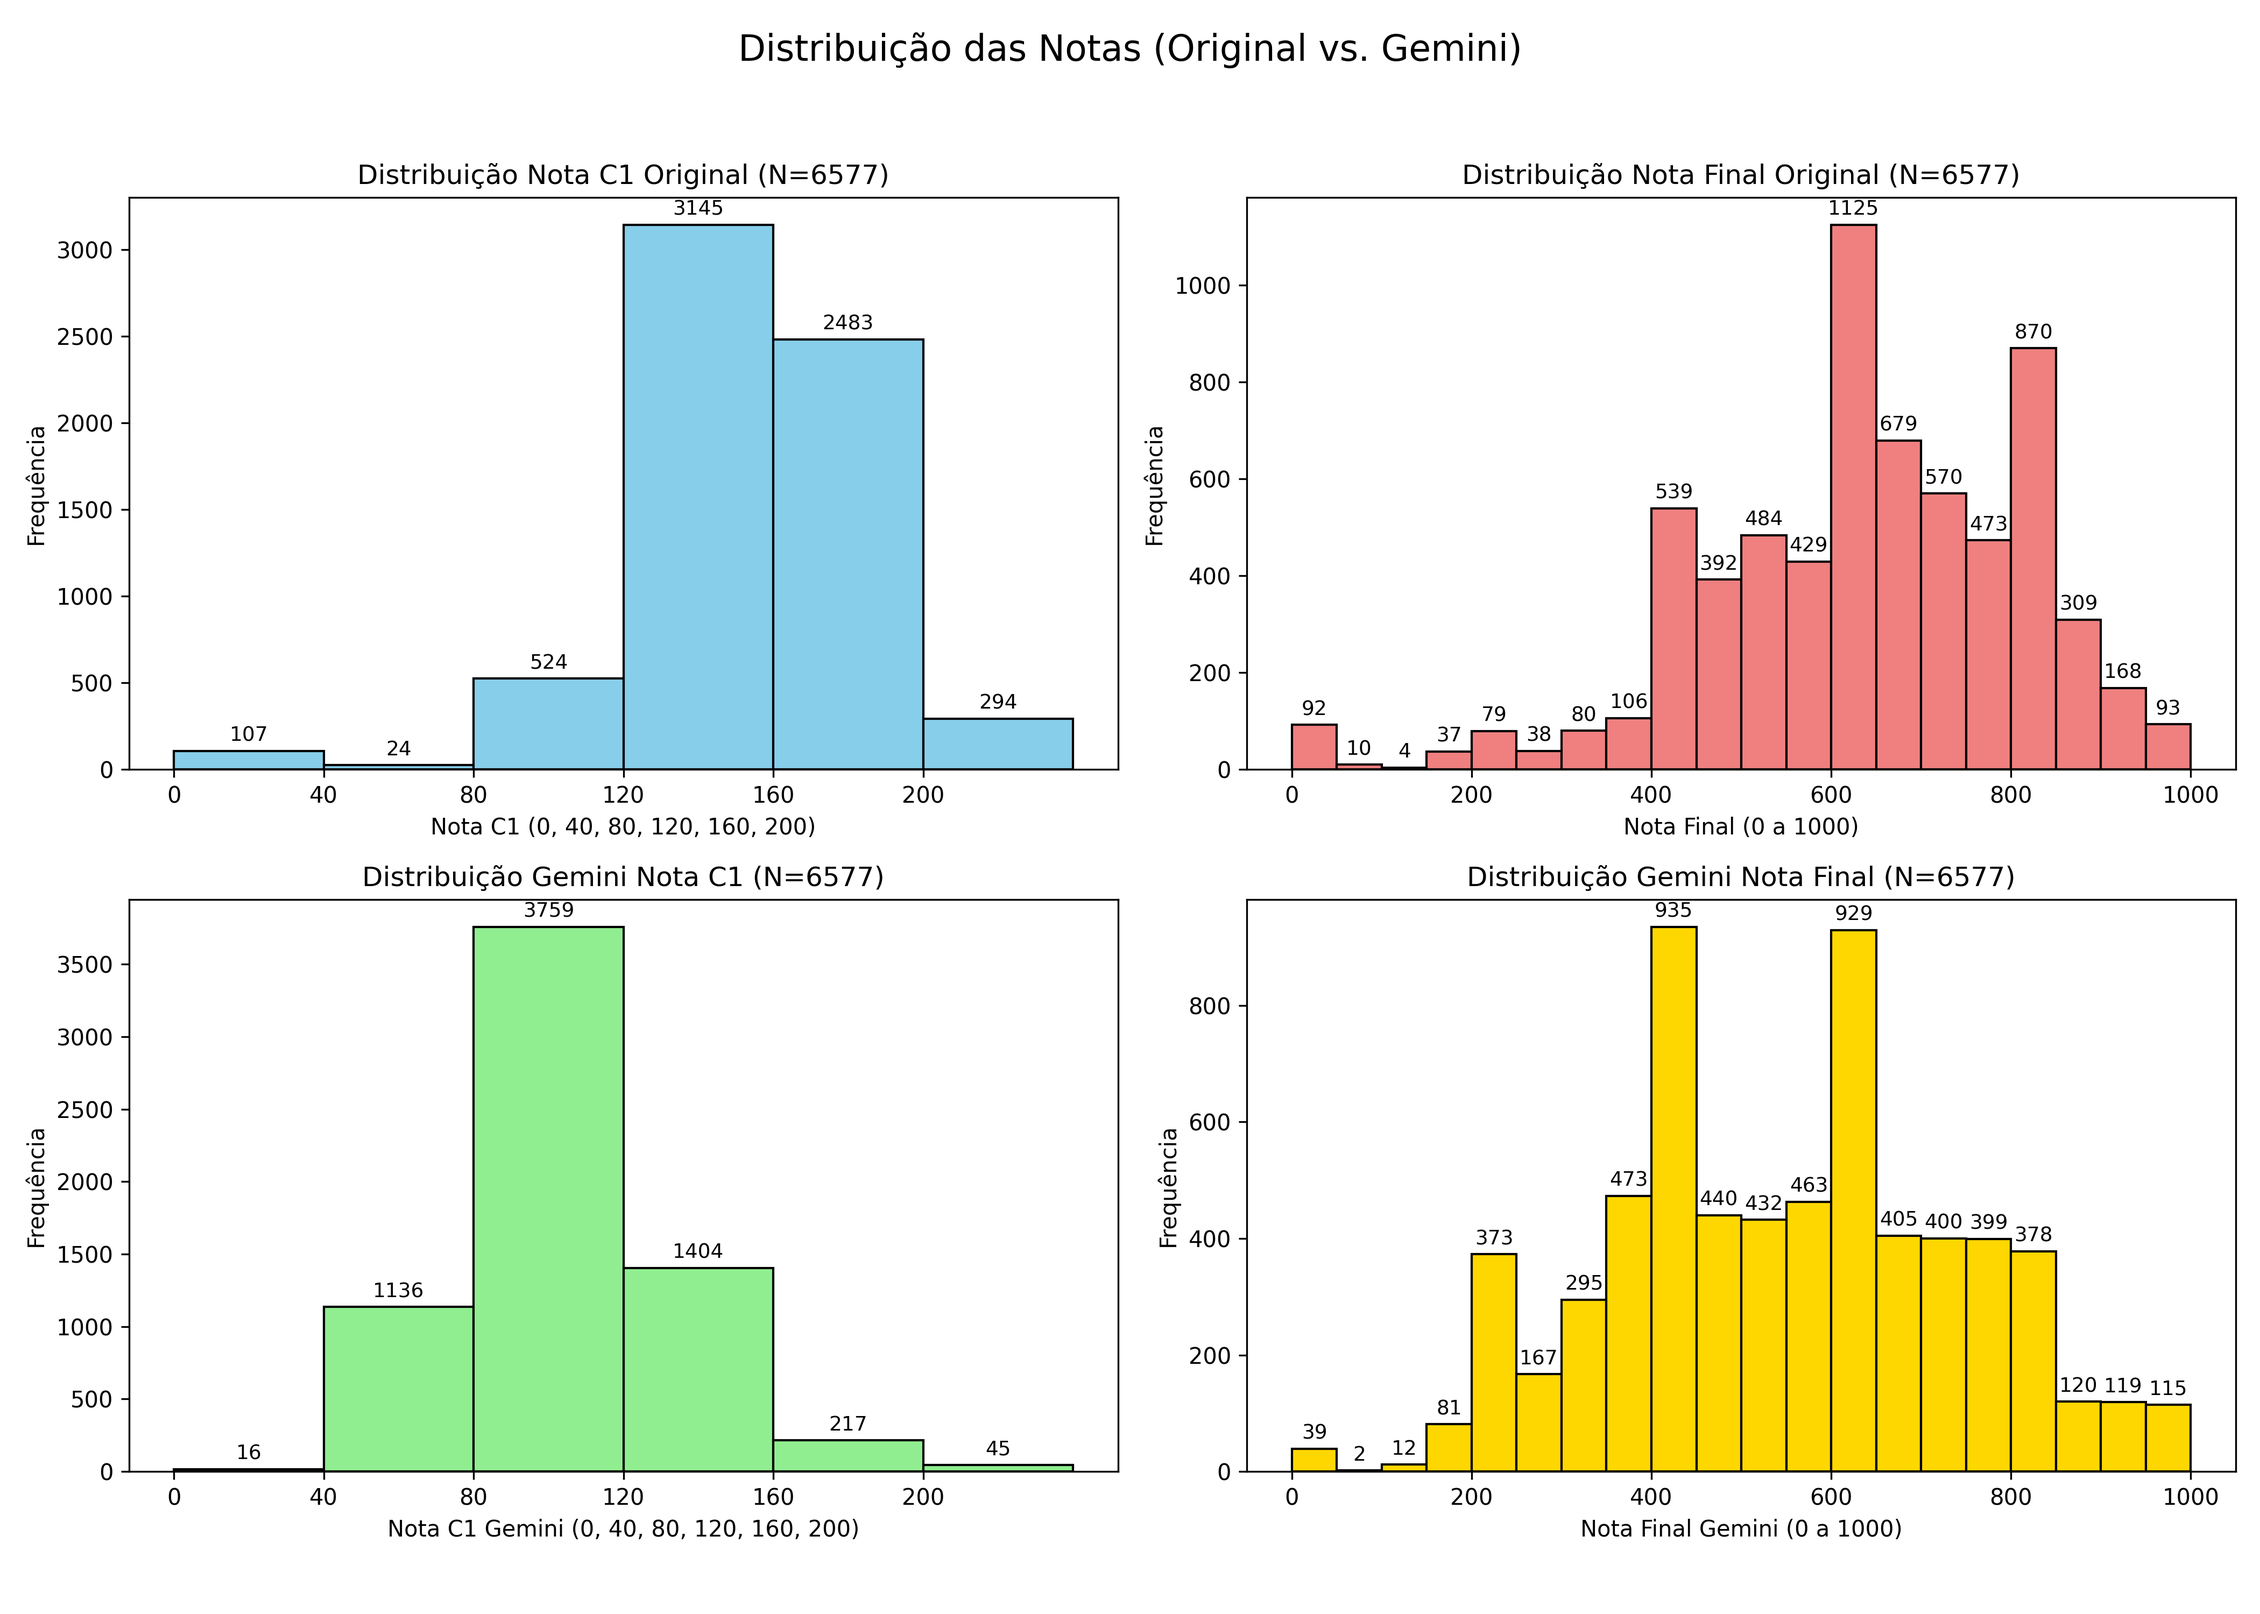
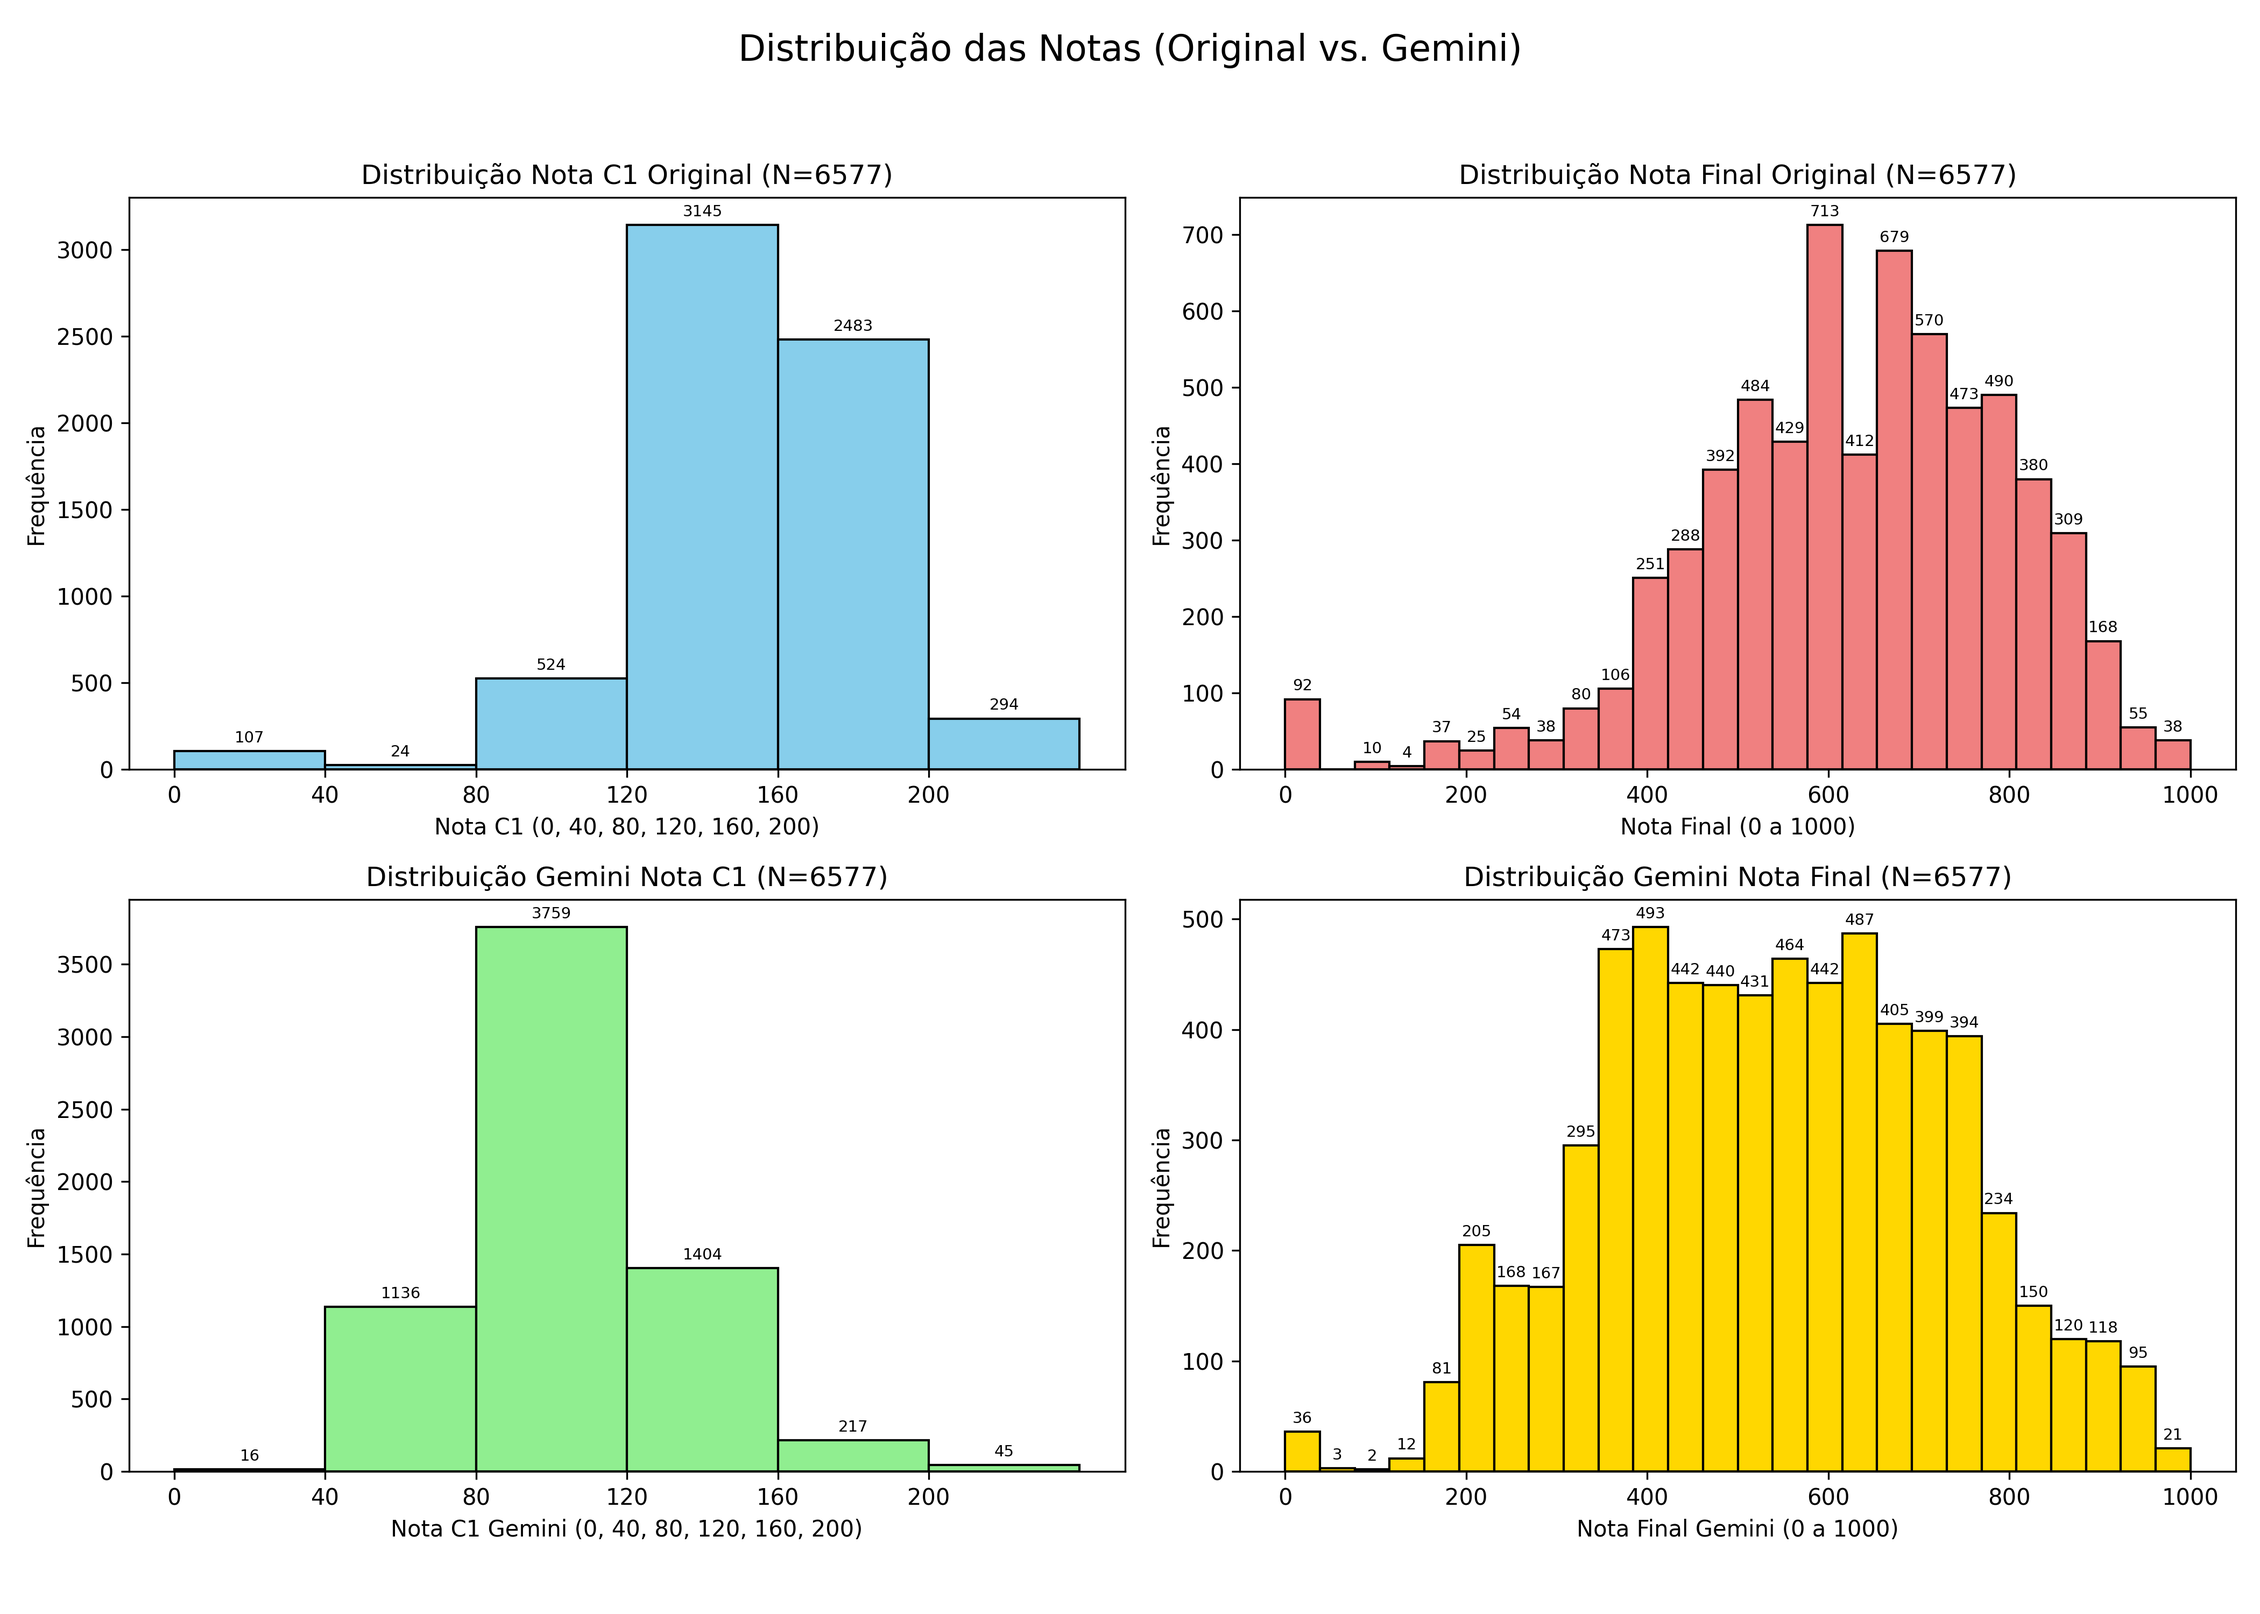
ajuste gráfico LLM

diff --git a/gemini_analysis/controle/result_check.py b/gemini_analysis/controle/result_check.py
@@ -24,7 +24,7 @@ def plotar_histograma_com_valores(ax, data, bins, title, xlabel, color, xticks=N
                 str(int(n[i])),         
                 ha='center',            
                 va='bottom',            
-                fontsize=9
+                fontsize=7
             )
 
     ax.set_title(f"{title} (N={len(data)})")
@@ -67,7 +67,7 @@ def gerar_graficos_distribuicao():
     plotar_histograma_com_valores(
         ax=axes[0, 1], 
         data=notas_originais_final, 
-        bins=20, 
+        bins=26, 
         title="Distribuição Nota Final Original",
         xlabel="Nota Final (0 a 1000)",
         color='lightcoral'
@@ -86,7 +86,7 @@ def gerar_graficos_distribuicao():
     plotar_histograma_com_valores(
         ax=axes[1, 1], 
         data=notas_gemini_final, 
-        bins=20, 
+        bins=26, 
         title="Distribuição Gemini Nota Final",
         xlabel="Nota Final Gemini (0 a 1000)",
         color='gold'
